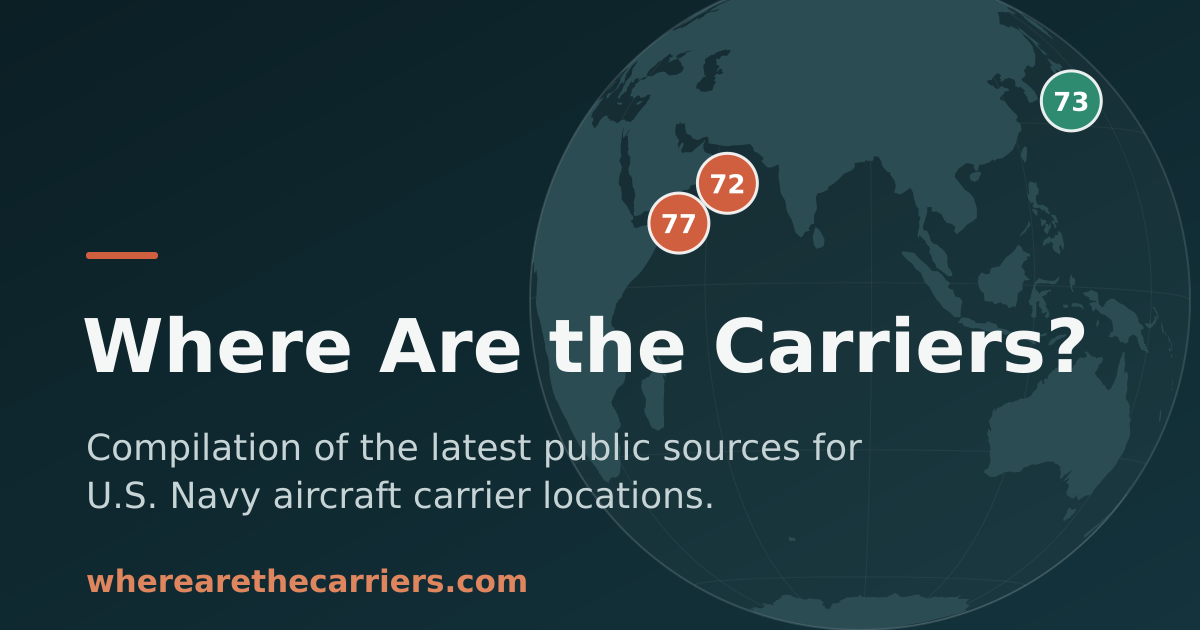
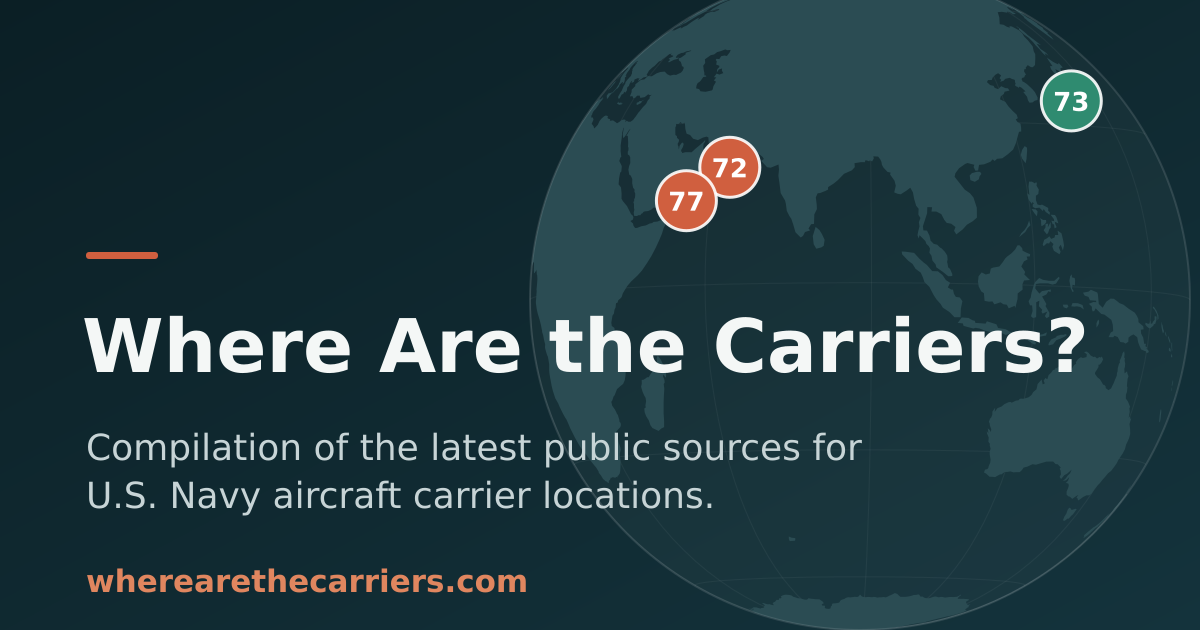
Nudge OG globe Arabian Sea markers (72, 77) north

Changed region(s): [[0.5242, 0.2111, 0.6475, 0.4222]]

diff --git a/scripts/gen-og-image.py b/scripts/gen-og-image.py
@@ -127,8 +127,8 @@ svg.append('<text x="86" y="592" font-family="DejaVu Sans, Arial, sans-serif" fo
 # carrier markers at their true positions (matches current live data)
 # CVN-72 & CVN-77 in the Arabian Sea (deployed/orange), CVN-73 at Yokosuka (port/teal).
 geo_markers = [
-    ("72", 63.0, 18.0, "#d05f3f"),       # Arabian Sea
-    ("77", 54.0, 11.0, "#d05f3f"),       # Arabian Sea, below-left of 72 (away from India)
+    ("72", 63.0, 21.0, "#d05f3f"),       # Arabian Sea
+    ("77", 55.0, 15.0, "#d05f3f"),       # Arabian Sea, below-left of 72 (away from India)
     ("73", 139.67, 35.28, "#2f8b70"),    # Yokosuka, Japan
 ]
 svg.append('<g font-family="DejaVu Sans, Arial, sans-serif" font-weight="700" fill="#ffffff" text-anchor="middle">')
